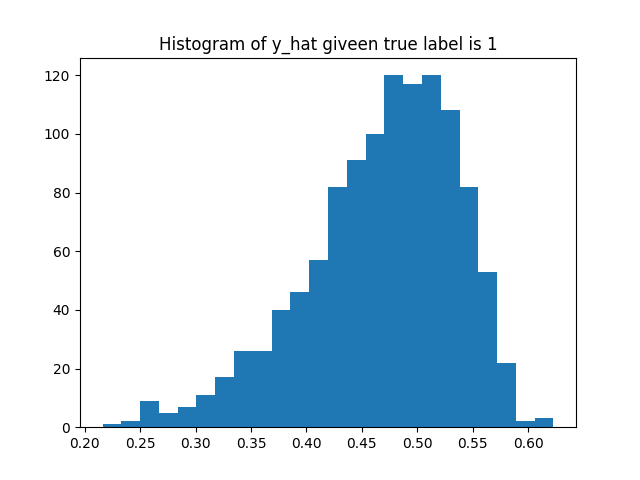
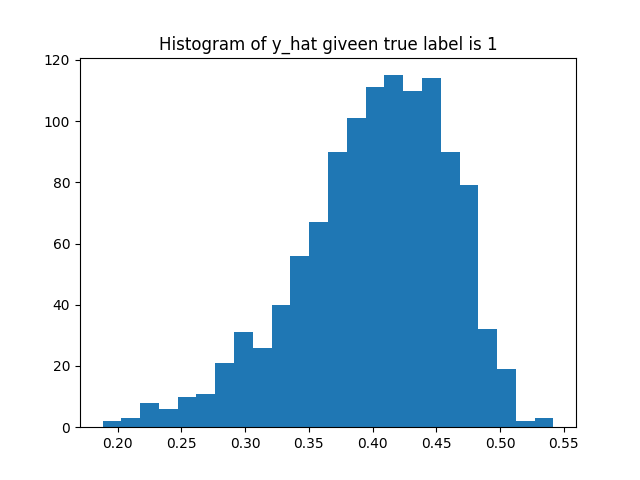
working solution with thresholds on logistic

diff --git a/paraphrase/logistic_test.py b/paraphrase/logistic_test.py
@@ -6,10 +6,14 @@ import argparse
 import numpy as np
 import pandas as pd
 
+import matplotlib.pyplot as plt
+
 PATH = "paraphrase/figs/"
 
 # Test corpus
 stored_file = "paraphrase/data/test_corpus1.pkl"
+stored_indices_path = "paraphrase/data/"
+data_file = "paraphrase/test_corpora/source_corpus2.csv"
 
 def read_csv(path):
     df = pd.read_csv(path)
@@ -89,11 +93,53 @@ def load_embeddings(fname):
     
     return stored_data
 
+# LOAD numpy indices for pairs above a threshold
+def load_indices(path):
+    sent1_path= path + "sent1_indices.npy"
+    sent2_path= path + "sent2_indices.npy"
+
+    sent1_indices = np.load(sent1_path)
+    sent2_indices = np.load(sent2_path)
+
+    return sent1_indices, sent2_indices
+
+
+# EVALUATE corpus sentence pairs (subset above threshold)
+def evaluate_model(clf, vectors1, vectors2):
+
+    print("Testing pairs on corpus above threshold")
+
+    test_vectors1, test_vectors2 = vectors1, vectors2
+    abs_diff = np.abs(test_vectors1 - test_vectors2)
+    elem_prod = test_vectors1 * test_vectors2
+
+    combined_test = np.concatenate((test_vectors1, 
+                        test_vectors2, abs_diff,elem_prod), axis = 1)
+    print(combined_test.shape)  
+   
+    print("Metrics for test dataset......")       
+
+    t_preds = clf.predict(combined_test) 
+    t_pred_probs = clf.predict_proba(combined_test)
+
+    print("Predictions for 10 are", t_preds[0:10])
+    print("Prediction probs for 10 are", t_pred_probs[0:10])
+
+    return clf, t_preds, t_pred_probs
+
+#FILTER corpus based on indices
+def filter_corpus_as_dataframe(full_file_path, list_of_indices):
+    data_file = pd.read_csv(full_file_path)['text']
+    df_new = data_file.iloc[list_of_indices]
+    return df_new
+
 
 def main():
     parser = argparse.ArgumentParser()
     parser.add_argument("-file", "--file", help="choose csv file for loading")
     parser.add_argument("-th", "--threshold", help="threshold to filter cosine similarities")
+    parser.add_argument("-sv", "--save", help="used saved indices or not")
+
     args = parser.parse_args()
 
     if args.file == "full":
@@ -130,13 +176,88 @@ def main():
     saved_model = load_saved_model(model_path)
     model_coeffs = saved_model.coef_
     model_biases = saved_model.intercept_
-    print(model_coeffs.shape)
-    print(model_biases.shape)
+    # print(model_coeffs.shape)
+    # print(model_biases.shape)
 
     stored_data = load_embeddings(stored_file)
     list_of_embeddings = stored_data['embeddings']
     print(list_of_embeddings.shape)
+
+    sent1_indices, sent2_indices = load_indices(stored_indices_path)
+    print(sent1_indices.shape, sent2_indices.shape)
+
+    ### Run the model on the sentence pairs on the big corpus 
+    sent_vectors_1 = list_of_embeddings[sent1_indices]
+    sent_vectors_2 =  list_of_embeddings[sent2_indices]
+
+    if args.save:
+
+        model, preds, probs = evaluate_model(saved_model, sent_vectors_1, sent_vectors_2)
+        print(probs[0:10])
+        print(probs[:,1].shape)
+
+        para_probs = probs[:,1]
+
+        plt.figure(1)
+        plt.hist(para_probs, bins='auto')  
+        plt.title("Histogram of para_probs")
+        plt.savefig("paraphrase/figs/hist_para_probs_0.5_thresh_big_corpus.png",format="png")
+
+        np.save("paraphrase/data/para_probs.npy", para_probs)
+
+    else:
+        para_probs = np.load("paraphrase/data/para_probs.npy")
+
+    bottom_100_indices = np.argsort(para_probs)[:100]
+    top_100_indices = np.argsort(-para_probs)[:100]
+
+    # print(bottom_100_indices)
+
+    df_sent1 = filter_corpus_as_dataframe(data_file, sent1_indices.tolist())
+    df_sent2 = filter_corpus_as_dataframe(data_file, sent2_indices.tolist())
+
+
+    top100_sent1 = df_sent1.iloc[top_100_indices.tolist()]
+    top100_sent2 = df_sent2.iloc[top_100_indices.tolist()]
+    top100_sent1.columns = ["sent1"]
+    top100_sent2.columns = ["sent2"]
+
+
+    bottom100_sent1 = df_sent1.iloc[bottom_100_indices.tolist()]
+    bottom100_sent2 = df_sent2.iloc[bottom_100_indices.tolist()]
+    bottom100_sent1.columns = ["sent1"]
+    bottom100_sent2.columns = ["sent2"]
+
+    top100_sent1.reset_index(drop=True, inplace=True)
+    top100_sent2.reset_index(drop=True, inplace=True)
+    bottom100_sent1.reset_index(drop=True, inplace=True)
+    bottom100_sent2.reset_index(drop=True, inplace=True)
+
+    # Top 100
+    # print(top100_sent1.head(), top100_sent2.head())
+    # print(top100_sent1.shape, top100_sent2.shape)
+
+    # Bottom 100
+    # print(bottom100_sent1.head(), bottom100_sent2.head())
+    # print(bottom100_sent1.shape, bottom100_sent2.shape)
+
+
+    df_probs_top = pd.DataFrame(para_probs[top_100_indices])[0]
+    # print(df_probs_top.head())
+    # print(df_probs_top.shape)
+    df_probs_top.columns = ["para_prob"]
+    new_df = pd.concat([top100_sent1, top100_sent2, df_probs_top], axis=1)
+    new_df.to_csv(SAVE_PATH + "top_100.csv")
+
+    df_probs_bottom = pd.DataFrame(para_probs[bottom_100_indices])[0]
+    # print(df_probs_bottom.head())
+    # print(df_probs_bottom.shape)
+    df_probs_bottom.columns = ["para_prob"]
+    new_df = pd.concat([bottom100_sent1, bottom100_sent2, df_probs_bottom], axis=1)
+    new_df.to_csv(SAVE_PATH + "bottom_100.csv")
+
     
+
 
 
 if __name__== '__main__':

diff --git a/paraphrase/dataloader_testcorpus.py b/paraphrase/dataloader_testcorpus.py
@@ -197,7 +197,7 @@ def main():
             '''df_new1 = filter_corpus_as_dataframe(file, first_sentence_indices.tolist())
             df_new2 = filter_corpus_as_dataframe(file, second_sentence_indices.tolist())
             df_new1.columns = ["sent1"]
-            df_new1.columns = ["sent2"]
+            df_new2.columns = ["sent2"]
             print(df_new1.shape)
             print(df_new2.shape)'''
 
